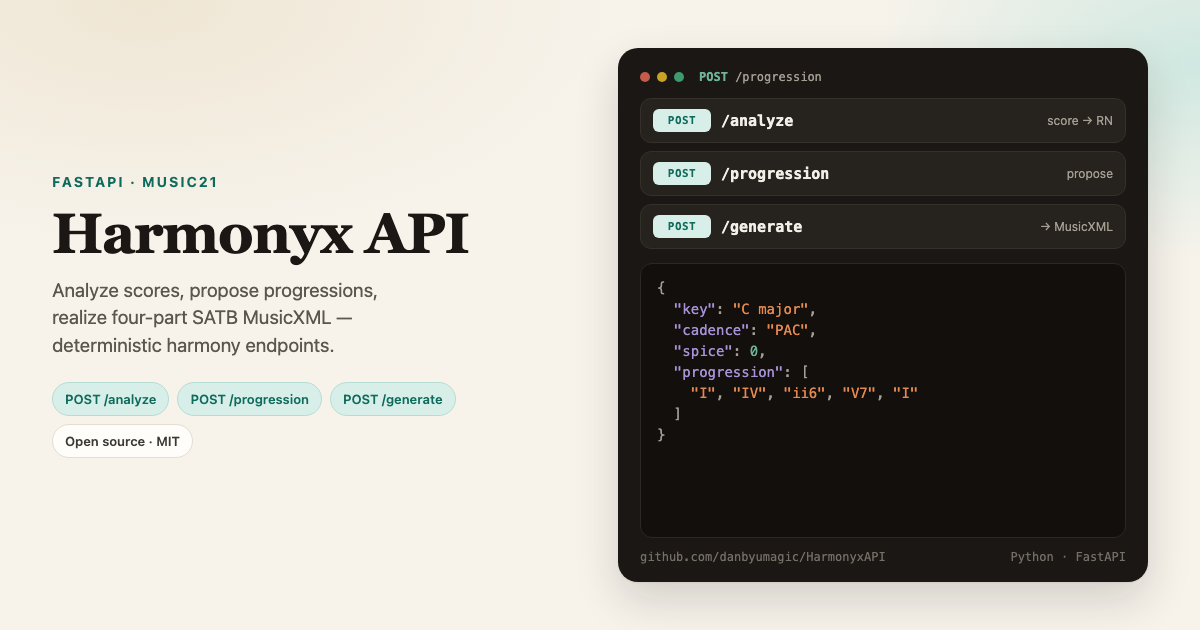
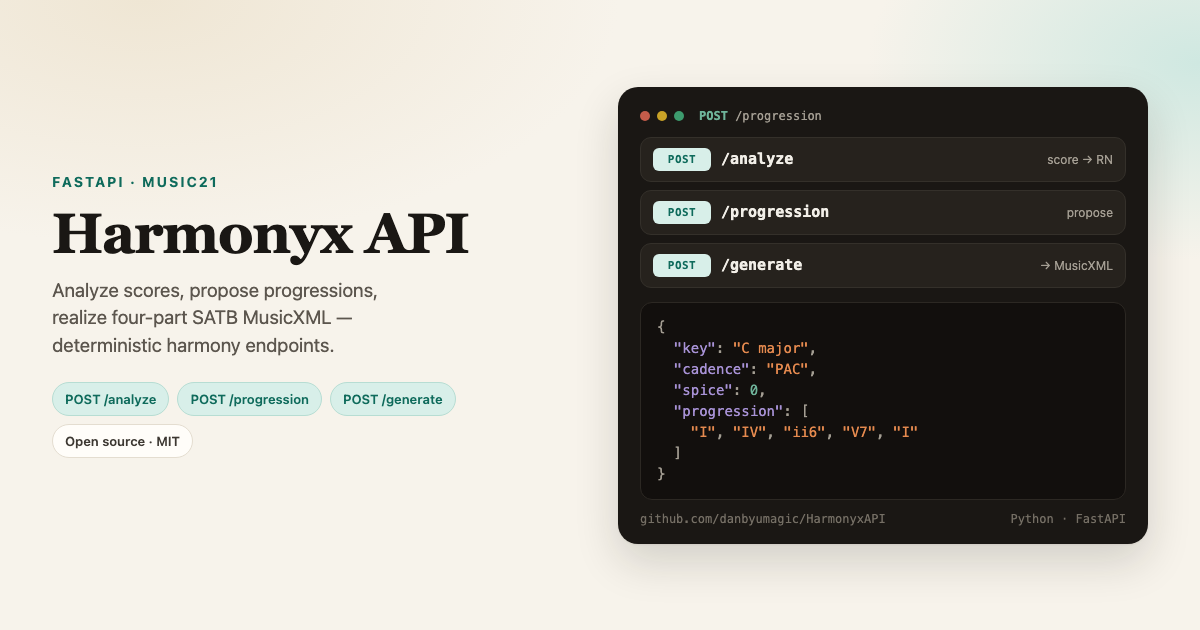
Hug content in portfolio card API panel (no empty JSON void)

diff --git a/assets/harmonyx-portfolio-preview.html b/assets/harmonyx-portfolio-preview.html
@@ -79,12 +79,11 @@
     border-radius: 20px;
     box-shadow: 0 1px 2px rgba(26,23,20,.06), 0 18px 44px rgba(26,23,20,.16);
     padding: 22px 22px 18px;
-    height: 100%;
-    max-height: 534px;
     display: flex;
     flex-direction: column;
     color: #f2efe8;
-    min-height: 0;
+    align-self: center;
+    width: 100%;
   }
   .chrome {
     display: flex;
@@ -147,8 +146,6 @@
     color: #a49e93;
   }
   .json-wrap {
-    flex: 1;
-    min-height: 0;
     border-radius: 12px;
     background: #120f0d;
     border: 1px solid #2c2823;
@@ -156,7 +153,6 @@
     font-family: ui-monospace, SFMono-Regular, Menlo, monospace;
     font-size: 14px;
     line-height: 1.5;
-    overflow: hidden;
   }
   .k { color: #a892d6; }
   .s { color: #e58a4f; }
